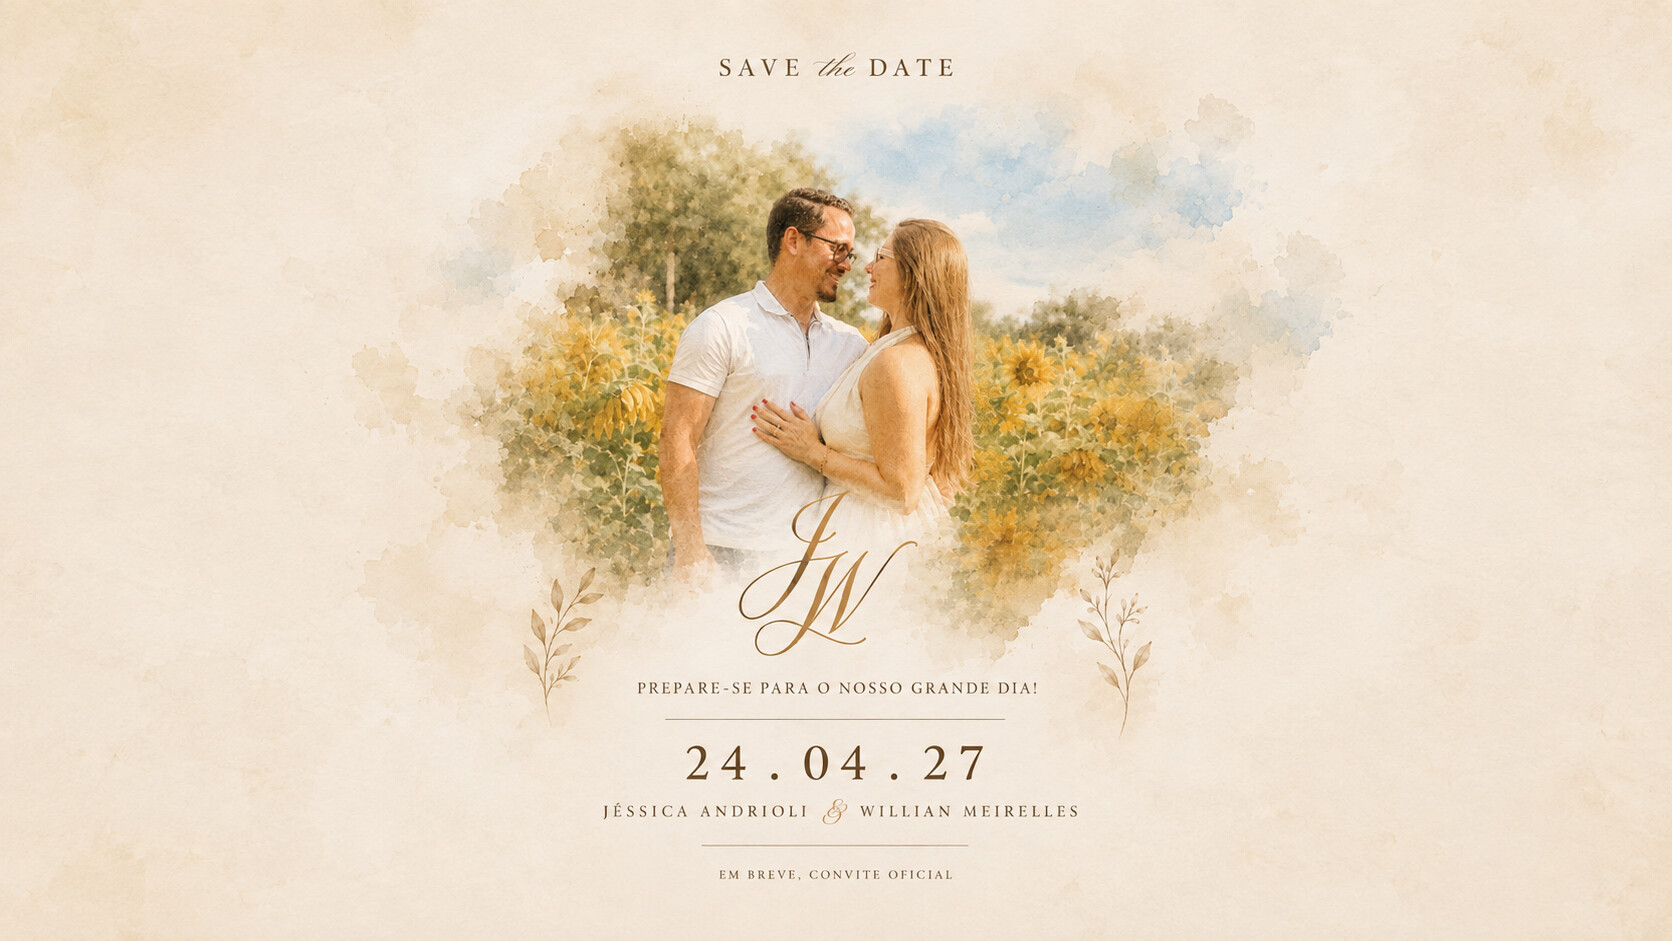
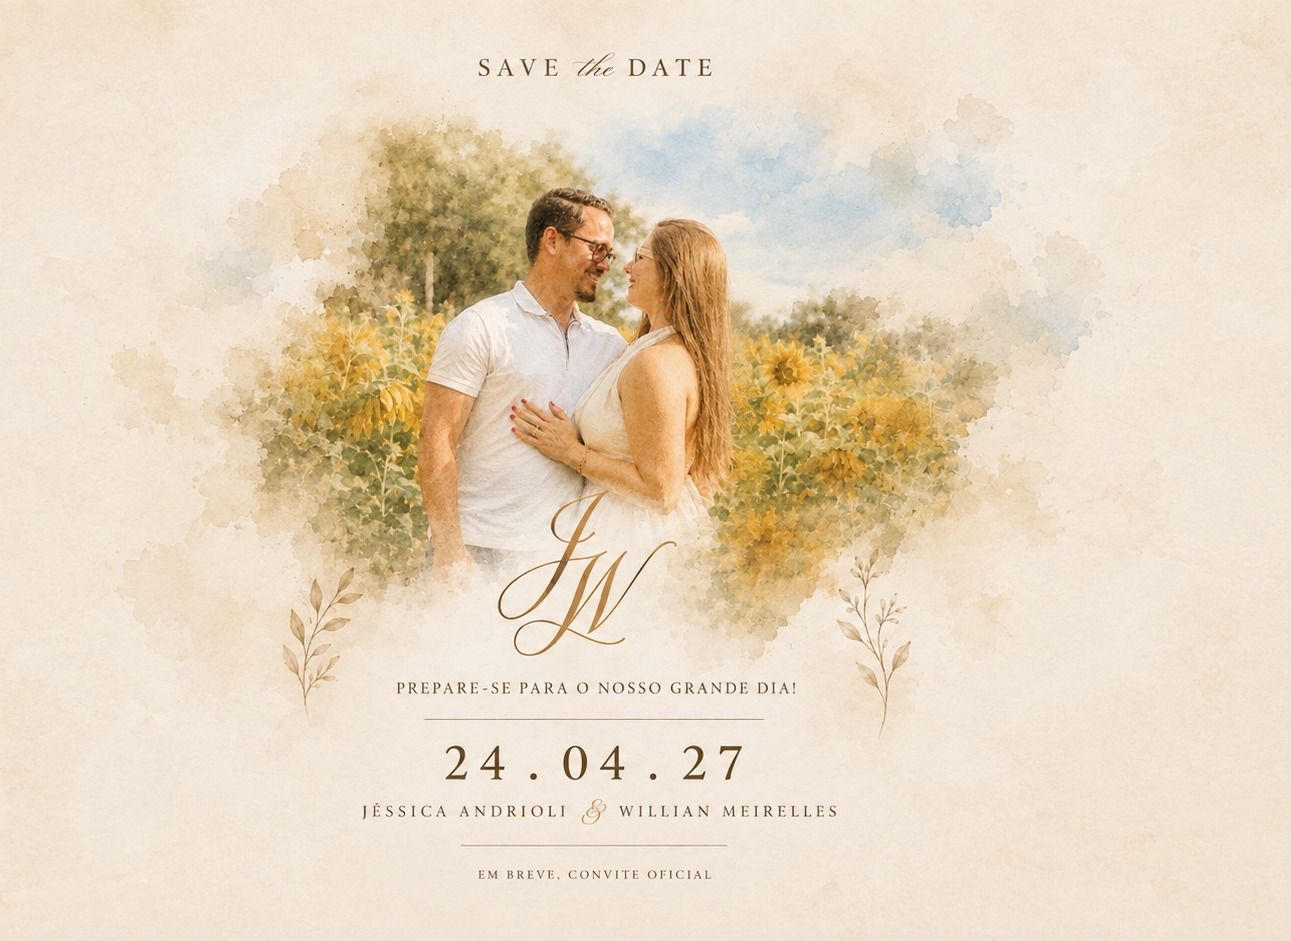
Faz a hero preencher a largura da tela
A imagem passa a ocupar 100% da largura (sem max-width nem padding
lateral), com altura proporcional automática em vez de ficar num
cartão centralizado com margens. Também recorta o excesso de fundo
vazio nas laterais da arte (quase 1/4 da largura original era só
papel aquarela sem conteúdo), preenchendo melhor a tela sem cortar
texto ou o monograma.

Claude-Session: https://claude.ai/code/session_01LnzAL4Gt1cwkHAfYcbQojS

diff --git a/components/Hero.tsx b/components/Hero.tsx
@@ -5,21 +5,21 @@ export default function Hero() {
   return (
     <section
       id="topo"
-      className="relative flex min-h-[100svh] flex-col items-center justify-center gap-10 overflow-hidden px-5 py-28 text-center"
+      className="relative flex min-h-[100svh] flex-col items-center justify-center gap-10 overflow-hidden py-16 text-center sm:py-20"
     >
-      <div className="relative w-full max-w-3xl overflow-hidden rounded-2xl shadow-[0_25px_60px_-25px_rgba(107,74,47,0.45)] ring-1 ring-gold/30">
+      <div className="relative w-full">
         <Image
           src="/images/hero-aquarela.jpg"
           alt="Save the date: Jéssica Andrioli e Willian Meirelles, 24 de abril de 2027"
-          width={1672}
+          width={1291}
           height={941}
           priority
-          sizes="(max-width: 768px) 100vw, 768px"
+          sizes="100vw"
           className="h-auto w-full"
         />
       </div>
 
-      <div className="flex flex-col items-center gap-7">
+      <div className="flex flex-col items-center gap-7 px-5">
         <div className="rounded-2xl bg-cream/70 px-6 py-5 backdrop-blur-sm sm:px-10">
           <Countdown />
         </div>
